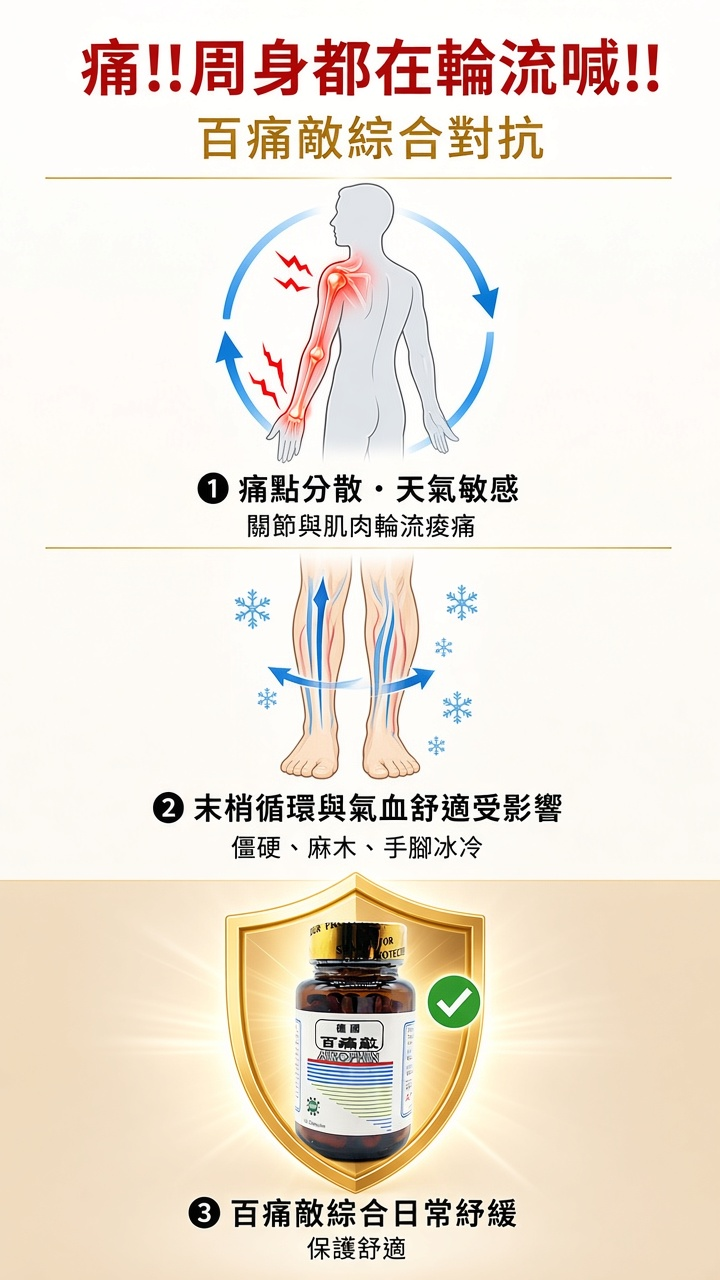
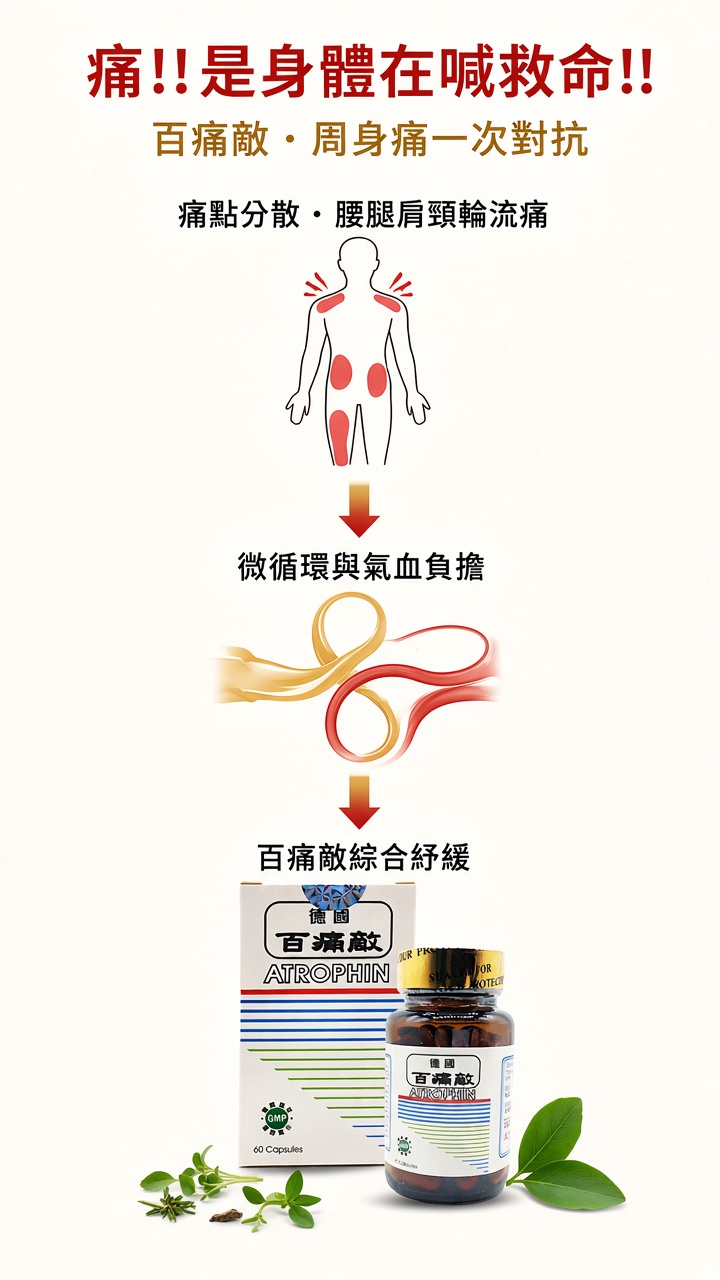
vg6 baitongdi: Miles verbatim 6-prompt regen
Regenerate 百痛敵 60粒 detail panels from Miles exact prompts
(panel 5 ordinary users). Packshot-referenced; HTML updated.

diff --git a/products/baitongdi-60caps-k0019.html b/products/baitongdi-60caps-k0019.html
@@ -99,25 +99,25 @@
     </div>
   </div>
 
-        <!-- VG6 直向詳圖：英雄・持貨・成分・科學・見證・對比 -->
+          <!-- VG6 直向詳圖：英雄・持貨・成分・科學・見證・對比 -->
   <div class="lf-section pdp-detail" id="product-detail-images">
     <h2>產品<span class="accent">詳圖</span></h2>
-    <p class="ml-soft" style="margin-top:0;margin-bottom:0.85rem">六段直向詳圖（Vita主模板改寫・本產品文案），可直向滑動瀏覽。SKU：H6838001_S_k0019。</p>
+    <p class="ml-soft" style="margin-top:0;margin-bottom:0.85rem">六段直向詳圖（按 Miles 提供之百痛敵 60粒 原句 Prompt 製作；第5格為用家分享），可直向滑動瀏覽。SKU：H6838001_S_k0019。</p>
     <div class="pdp-detail-stack">
       <figure class="pdp-detail-fig">
-        <img src="../assets/products/baitongdi-60caps-k0019/detail/vg6-01.jpg" alt="【周身痛皇牌】百痛敵 60粒 – 多處酸痛・風濕輪流，HK$239 加入購物車" width="720" height="1280" loading="lazy">
+        <img src="../assets/products/baitongdi-60caps-k0019/detail/vg6-01.jpg" alt="【周身痛皇牌】百痛敵 60粒 – 多處酸痛・風濕輪流・腰腿肩頸，HK$239 加入購物車" width="720" height="1280" loading="lazy">
       </figure>
       <figure class="pdp-detail-fig">
-        <img src="../assets/products/baitongdi-60caps-k0019/detail/vg6-02.jpg" alt="周身痛舒返嚟・多處酸痛風濕綜合對抗・百痛敵" width="720" height="1280" loading="lazy">
+        <img src="../assets/products/baitongdi-60caps-k0019/detail/vg6-02.jpg" alt="周身痛一次對抗・多處酸痛・風濕輪流" width="720" height="1280" loading="lazy">
       </figure>
       <figure class="pdp-detail-fig">
-        <img src="../assets/products/baitongdi-60caps-k0019/detail/vg6-03.jpg" alt="核心敘述成分：碧容健、銀杏精華、複方營養（以包裝為準）" width="720" height="1280" loading="lazy">
+        <img src="../assets/products/baitongdi-60caps-k0019/detail/vg6-03.jpg" alt="多處酸痛一次對抗・針對腰腿肩頸輪流不適" width="720" height="1280" loading="lazy">
       </figure>
       <figure class="pdp-detail-fig">
-        <img src="../assets/products/baitongdi-60caps-k0019/detail/vg6-04.jpg" alt="週身痛三步驟：痛點分散 → 循環負擔 → 百痛敵綜合紓緩" width="720" height="1280" loading="lazy">
+        <img src="../assets/products/baitongdi-60caps-k0019/detail/vg6-04.jpg" alt="痛!!是身體在喊救命!!・百痛敵・周身痛一次對抗" width="720" height="1280" loading="lazy">
       </figure>
       <figure class="pdp-detail-fig">
-        <img src="../assets/products/baitongdi-60caps-k0019/detail/vg6-05.jpg" alt="明星分享：陳貝兒・胡定欣・毛舜筠談百痛敵周身痛紓緩（形象視覺）" width="720" height="1280" loading="lazy">
+        <img src="../assets/products/baitongdi-60caps-k0019/detail/vg6-05.jpg" alt="用家分享：陳太・李生・張小姐談百痛敵" width="720" height="1280" loading="lazy">
       </figure>
       <figure class="pdp-detail-fig">
         <img src="../assets/products/baitongdi-60caps-k0019/detail/vg6-06.jpg" alt="為何選擇百痛敵而非單一部位藥／只擦外用油" width="720" height="1280" loading="lazy">
